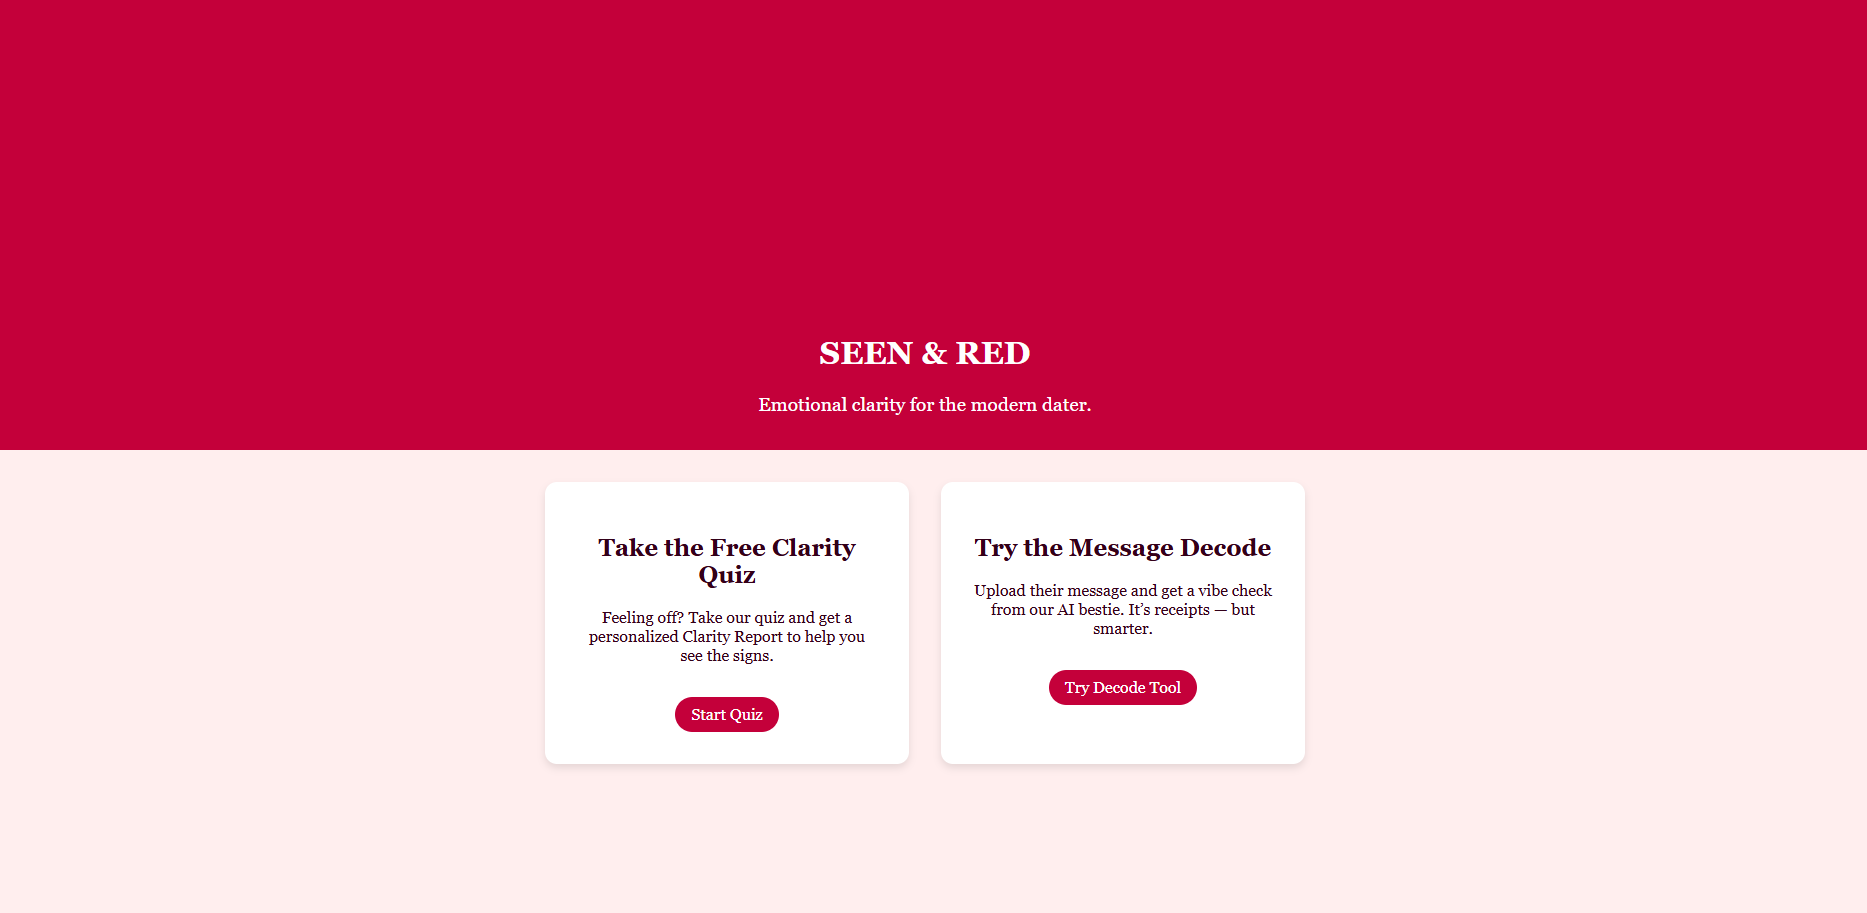
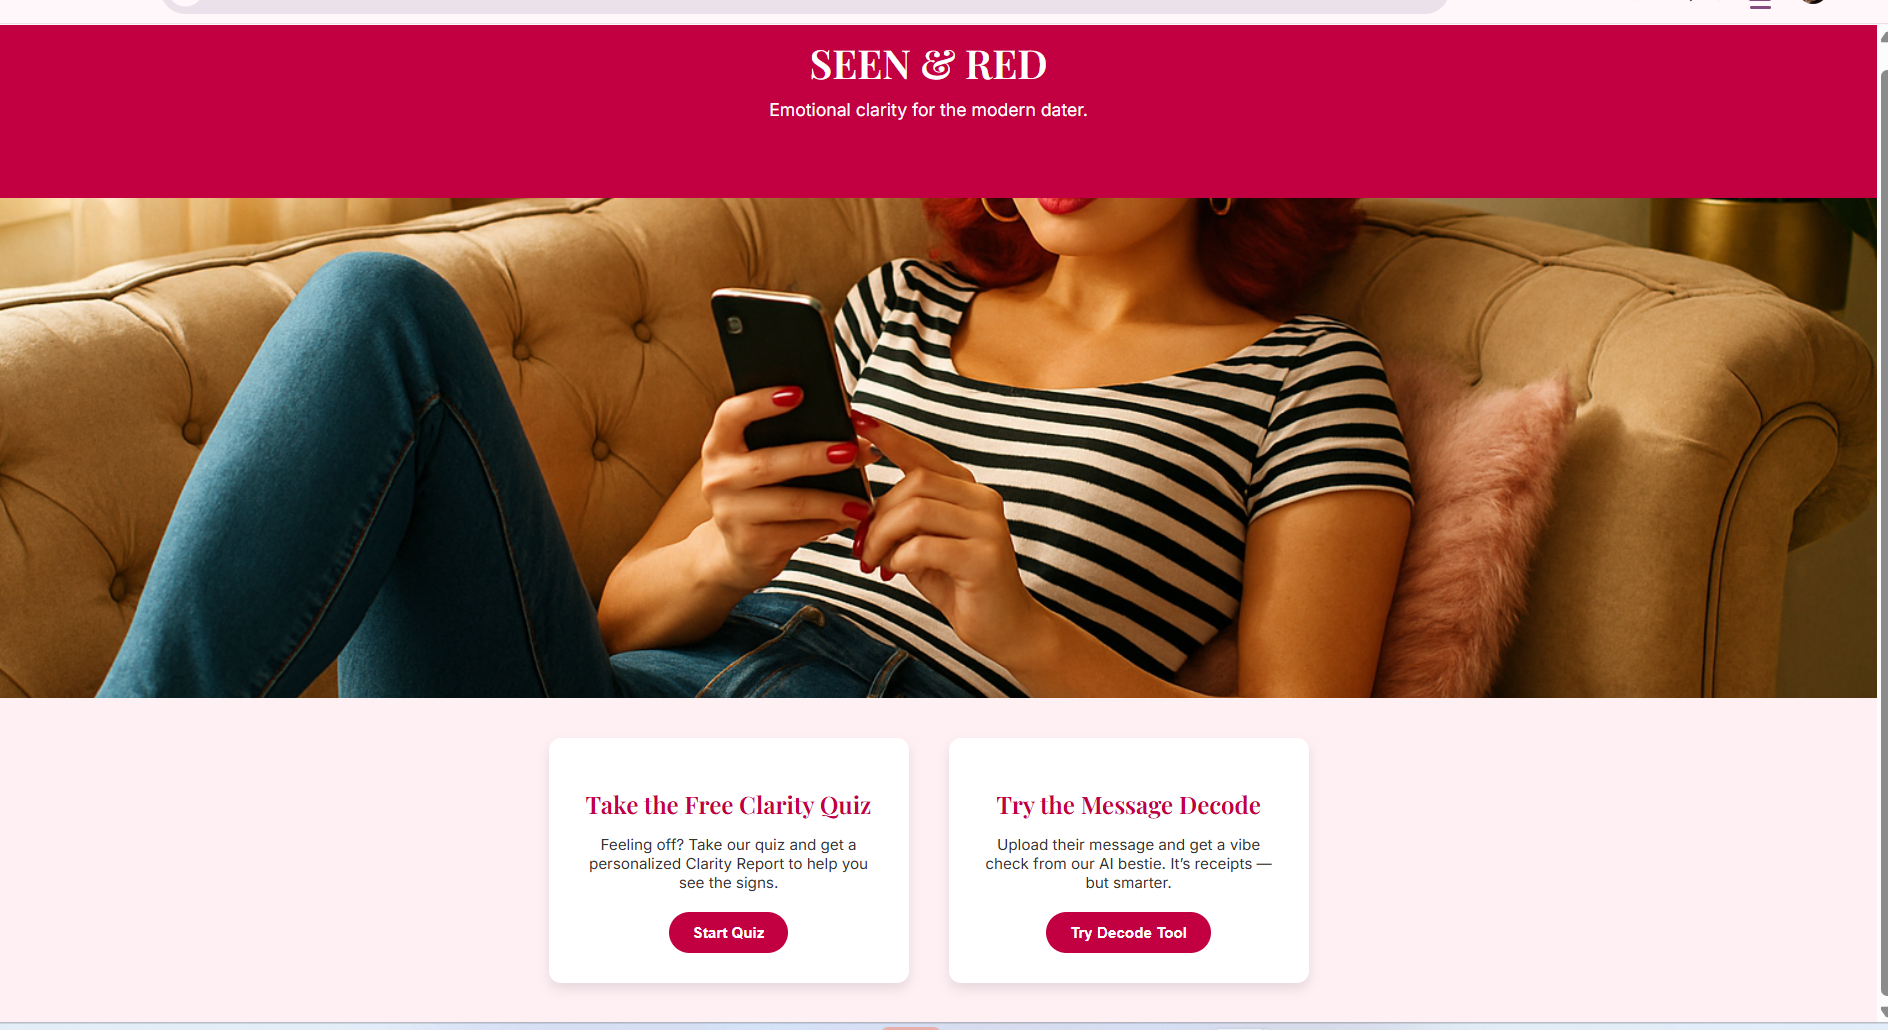
Add files via upload

diff --git a/index.html b/index.html
@@ -1,123 +1,103 @@
-
 <!DOCTYPE html>
 <html lang="en">
 <head>
-  <meta charset="UTF-8" />
-  <meta name="viewport" content="width=device-width, initial-scale=1.0"/>
-  <title>Seen & Red</title>
-  <link href="https://fonts.googleapis.com/css2?family=Playfair+Display:wght@700&family=Inter&display=swap" rel="stylesheet">
-  <style>
-    body {
-      margin: 0;
-      font-family: 'Inter', sans-serif;
-      background-color: #ffeeef;
-      color: #300000;
-    }
-
-    header {
-      position: relative;
-      width: 100%;
-      height: 80vh;
-      background: url('hero.jpg') center top/cover no-repeat;
-      display: flex;
-      align-items: center;
-      justify-content: center;
-      text-align: center;
-    }
-
-    header .overlay {
-      background: rgba(255, 0, 64, 0.7);
-      color: white;
-      padding: 1rem 2rem;
-      border-radius: 12px;
-      backdrop-filter: blur(4px);
-    }
-
-    header h1 {
-      font-family: 'Playfair Display', serif;
-      font-size: 2.8rem;
-      margin: 0;
-    }
-
-    header p {
-      margin: 0.5rem 0 0 0;
-      font-size: 1.1rem;
-    }
-
-    .cta-section {
-      display: flex;
-      justify-content: center;
-      flex-wrap: wrap;
-      gap: 2rem;
-      margin-top: -60px;
-      padding: 2rem 1rem 4rem;
-    }
-
-    .cta-card {
-      background: white;
-      padding: 2rem;
-      border-radius: 16px;
-      box-shadow: 0 10px 20px rgba(0,0,0,0.05);
-      max-width: 300px;
-      text-align: center;
-    }
-
-    .cta-card h2 {
-      color: #c40042;
-      font-family: 'Playfair Display', serif;
-    }
-
-    .cta-card p {
-      font-size: 0.95rem;
-      margin: 1rem 0;
-    }
-
-    .cta-card button {
-      background-color: #c40042;
-      color: white;
-      border: none;
-      padding: 0.6rem 1.2rem;
-      font-weight: bold;
-      border-radius: 24px;
-      cursor: pointer;
-    }
-
-    @media (max-width: 768px) {
-      header {
-        height: 60vh;
-        background-position: center top;
-      }
-
-      header h1 {
-        font-size: 2rem;
-      }
-
-      .cta-section {
-        margin-top: -40px;
-        padding: 2rem 1rem;
-      }
-    }
-  </style>
+    <meta charset="UTF-8">
+    <meta name="viewport" content="width=device-width, initial-scale=1.0">
+    <title>Seen & Red</title>
+    <link href="https://fonts.googleapis.com/css2?family=Playfair+Display:wght@600&family=Inter&display=swap" rel="stylesheet">
+    <style>
+        body {
+            margin: 0;
+            font-family: 'Inter', sans-serif;
+            background-color: #ffeeef;
+            color: #460019;
+        }
+        .hero {
+            position: relative;
+            width: 100%;
+            height: auto;
+        }
+        .hero img {
+            width: 100%;
+            height: auto;
+            display: block;
+        }
+        .header {
+            position: absolute;
+            top: 40px;
+            left: 50%;
+            transform: translateX(-50%);
+            text-align: center;
+            background-color: rgba(206, 0, 58, 0.9);
+            padding: 1rem 2rem;
+            border-radius: 12px;
+        }
+        .header h1 {
+            font-family: 'Playfair Display', serif;
+            font-size: 2rem;
+            color: white;
+            margin: 0;
+        }
+        .header p {
+            color: white;
+            font-size: 1rem;
+            margin: 0;
+        }
+        .cta-section {
+            display: flex;
+            flex-wrap: wrap;
+            justify-content: center;
+            gap: 2rem;
+            margin: 2rem auto;
+            max-width: 1000px;
+            padding: 0 1rem;
+        }
+        .cta {
+            background: white;
+            padding: 1.5rem;
+            border-radius: 12px;
+            box-shadow: 0 5px 20px rgba(0,0,0,0.05);
+            width: 300px;
+            text-align: center;
+        }
+        .cta h2 {
+            font-family: 'Playfair Display', serif;
+            color: #990033;
+            margin-bottom: 0.5rem;
+        }
+        .cta p {
+            font-size: 0.95rem;
+            margin-bottom: 1rem;
+        }
+        .cta a {
+            background-color: #c20045;
+            color: white;
+            padding: 0.5rem 1rem;
+            border-radius: 25px;
+            text-decoration: none;
+            font-weight: bold;
+        }
+    </style>
 </head>
 <body>
-  <header>
-    <div class="overlay">
-      <h1>SEEN & RED</h1>
-      <p>Emotional clarity for the modern dater.</p>
+    <div class="hero">
+        <img src="assets/hero-girl-on-couch.png" alt="Girl on couch with phone">
+        <div class="header">
+            <h1>SEEN & RED</h1>
+            <p>Emotional clarity for the modern dater.</p>
+        </div>
     </div>
-  </header>
-
-  <section class="cta-section">
-    <div class="cta-card">
-      <h2>Take the Free Clarity Quiz</h2>
-      <p>Feeling off? Take our quiz and get a personalized Clarity Report to help you see the signs.</p>
-      <button>Start Quiz</button>
+    <div class="cta-section">
+        <div class="cta">
+            <h2>Take the Free Clarity Quiz</h2>
+            <p>Feeling off? Take our quiz and get a personalized Clarity Report to help you see the signs.</p>
+            <a href="#">Start Quiz</a>
+        </div>
+        <div class="cta">
+            <h2>Try the Message Decode</h2>
+            <p>Upload their message and get a vibe check from our AI bestie. It’s receipts — but smarter.</p>
+            <a href="#">Try Decode Tool</a>
+        </div>
     </div>
-    <div class="cta-card">
-      <h2>Try the Message Decode</h2>
-      <p>Upload their message and get a vibe check from our AI bestie. It’s receipts — but smarter.</p>
-      <button>Try Decode Tool</button>
-    </div>
-  </section>
 </body>
 </html>
